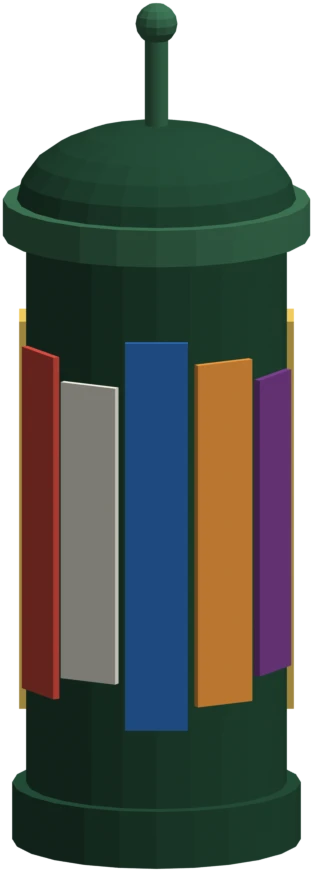
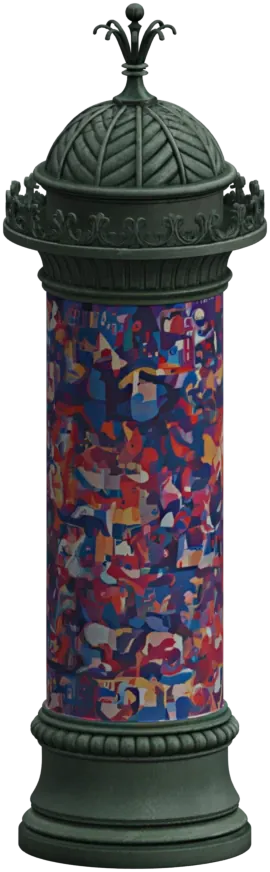
Légende (canal de test) : colonne Morris et fontaine Wallace (Paris), guérite et garde (Londres) refaits dans Tripo

diff --git a/tools/blender/decors/legende_pieces.py b/tools/blender/decors/legende_pieces.py
@@ -34,7 +34,9 @@
 #   Londres    boite (pillar box), bus (impériale), garde (guerite et garde)
 #
 # Le drac, le taxi, le bus (09/10), le banc trencadis (10/10), le kiosque,
-# le jerk, le simit, le hot-dog et la cesme (15/10) ne sont plus modelises ici :
+# le jerk, le simit, le hot-dog et la cesme, puis le baobab, le zellige, le
+# sakura, la colonne Morris, la fontaine Wallace et la guerite (15/10) ne sont
+# plus modelises ici :
 # ce sont des modeles Tripo, rendus de la meme facon (voir TRIPO plus bas).
 # -----------------------------------------------------------------------
 
@@ -606,6 +608,9 @@ TRIPO = {
     'zellige': dict(source='zellige-tripo.glb', rot=270.0, hauteur=2.75),
     'sakura': dict(source='sakura-tripo.glb', rot=270.0, hauteur=5.5, sat=1.4,
                    socle=dict(h=0.03, touffes=0.06, rayon=0.05)),
+    'morris': dict(source='morris-tripo.glb', rot=0.0, hauteur=3.67),
+    'wallace': dict(source='wallace-tripo.glb', rot=90.0, hauteur=2.62),
+    'garde': dict(source='garde-tripo.glb', rot=270.0, hauteur=3.12),
 }
 
 

diff --git a/src/assets/legende/decors/CREDITS.md b/src/assets/legende/decors/CREDITS.md
@@ -38,3 +38,4 @@ Hassan II (1993), Sagrada Família (en construction), Kinkaku-ji (reconstruit en
 | Vélo, avion de ligne, voiture, car d'équipe, jet privé, fusée | `src/assets/legende/vehicules/` | images générées (Tripo, Nano Banana), modèles Tripo HD, sans marque ; logo BENBEZI posé au dessin sur le car et le jet | — |
 | Kiosque (Kingston), barbecue jerk, charrette de simit et çeşme (İzmir), chariot de hot-dogs (New York) | `kiosque.webp`, `jerk.webp`, `simit.webp`, `cesme.webp`, `hotdog.webp` (15/10/2026) | images générées (Tripo, Nano Banana), modèles Tripo HD | — |
 | Baobab (Abuja), fontaine murale de zellige (Casablanca), cerisier en fleurs (Kyoto) | `baobab.webp`, `zellige.webp`, `sakura.webp` (15/10/2026) | images générées (Tripo, Nano Banana), modèles Tripo HD ; disque de terre retiré sous le baobab | — |
+| Colonne Morris et fontaine Wallace (Paris), guérite et garde (Londres) | `morris.webp`, `wallace.webp`, `garde.webp` (15/10/2026) | images générées (Tripo, Nano Banana), modèles Tripo HD ; affiches sans texte | — |
